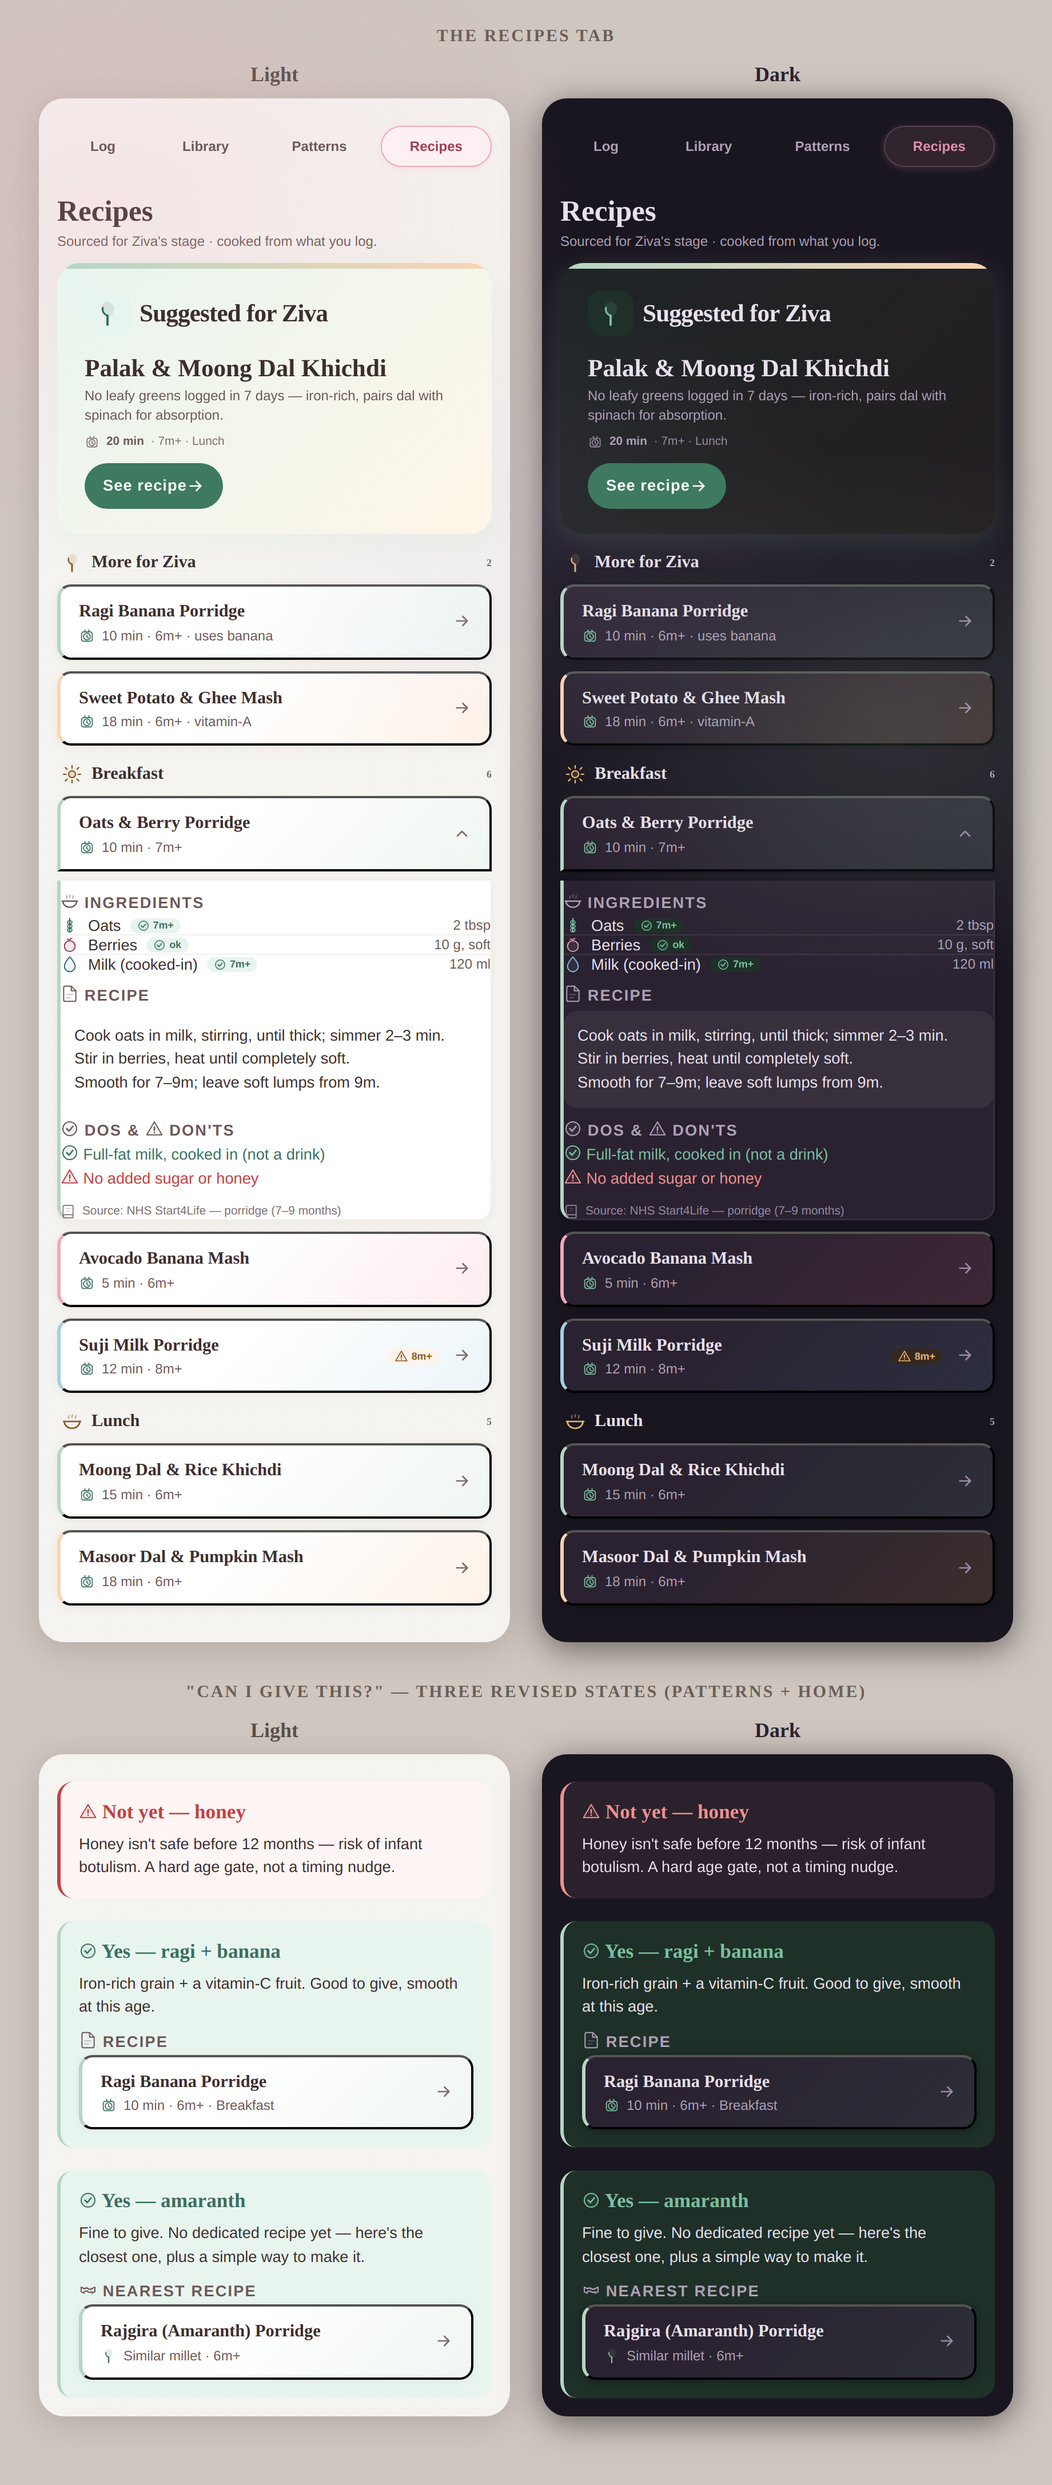
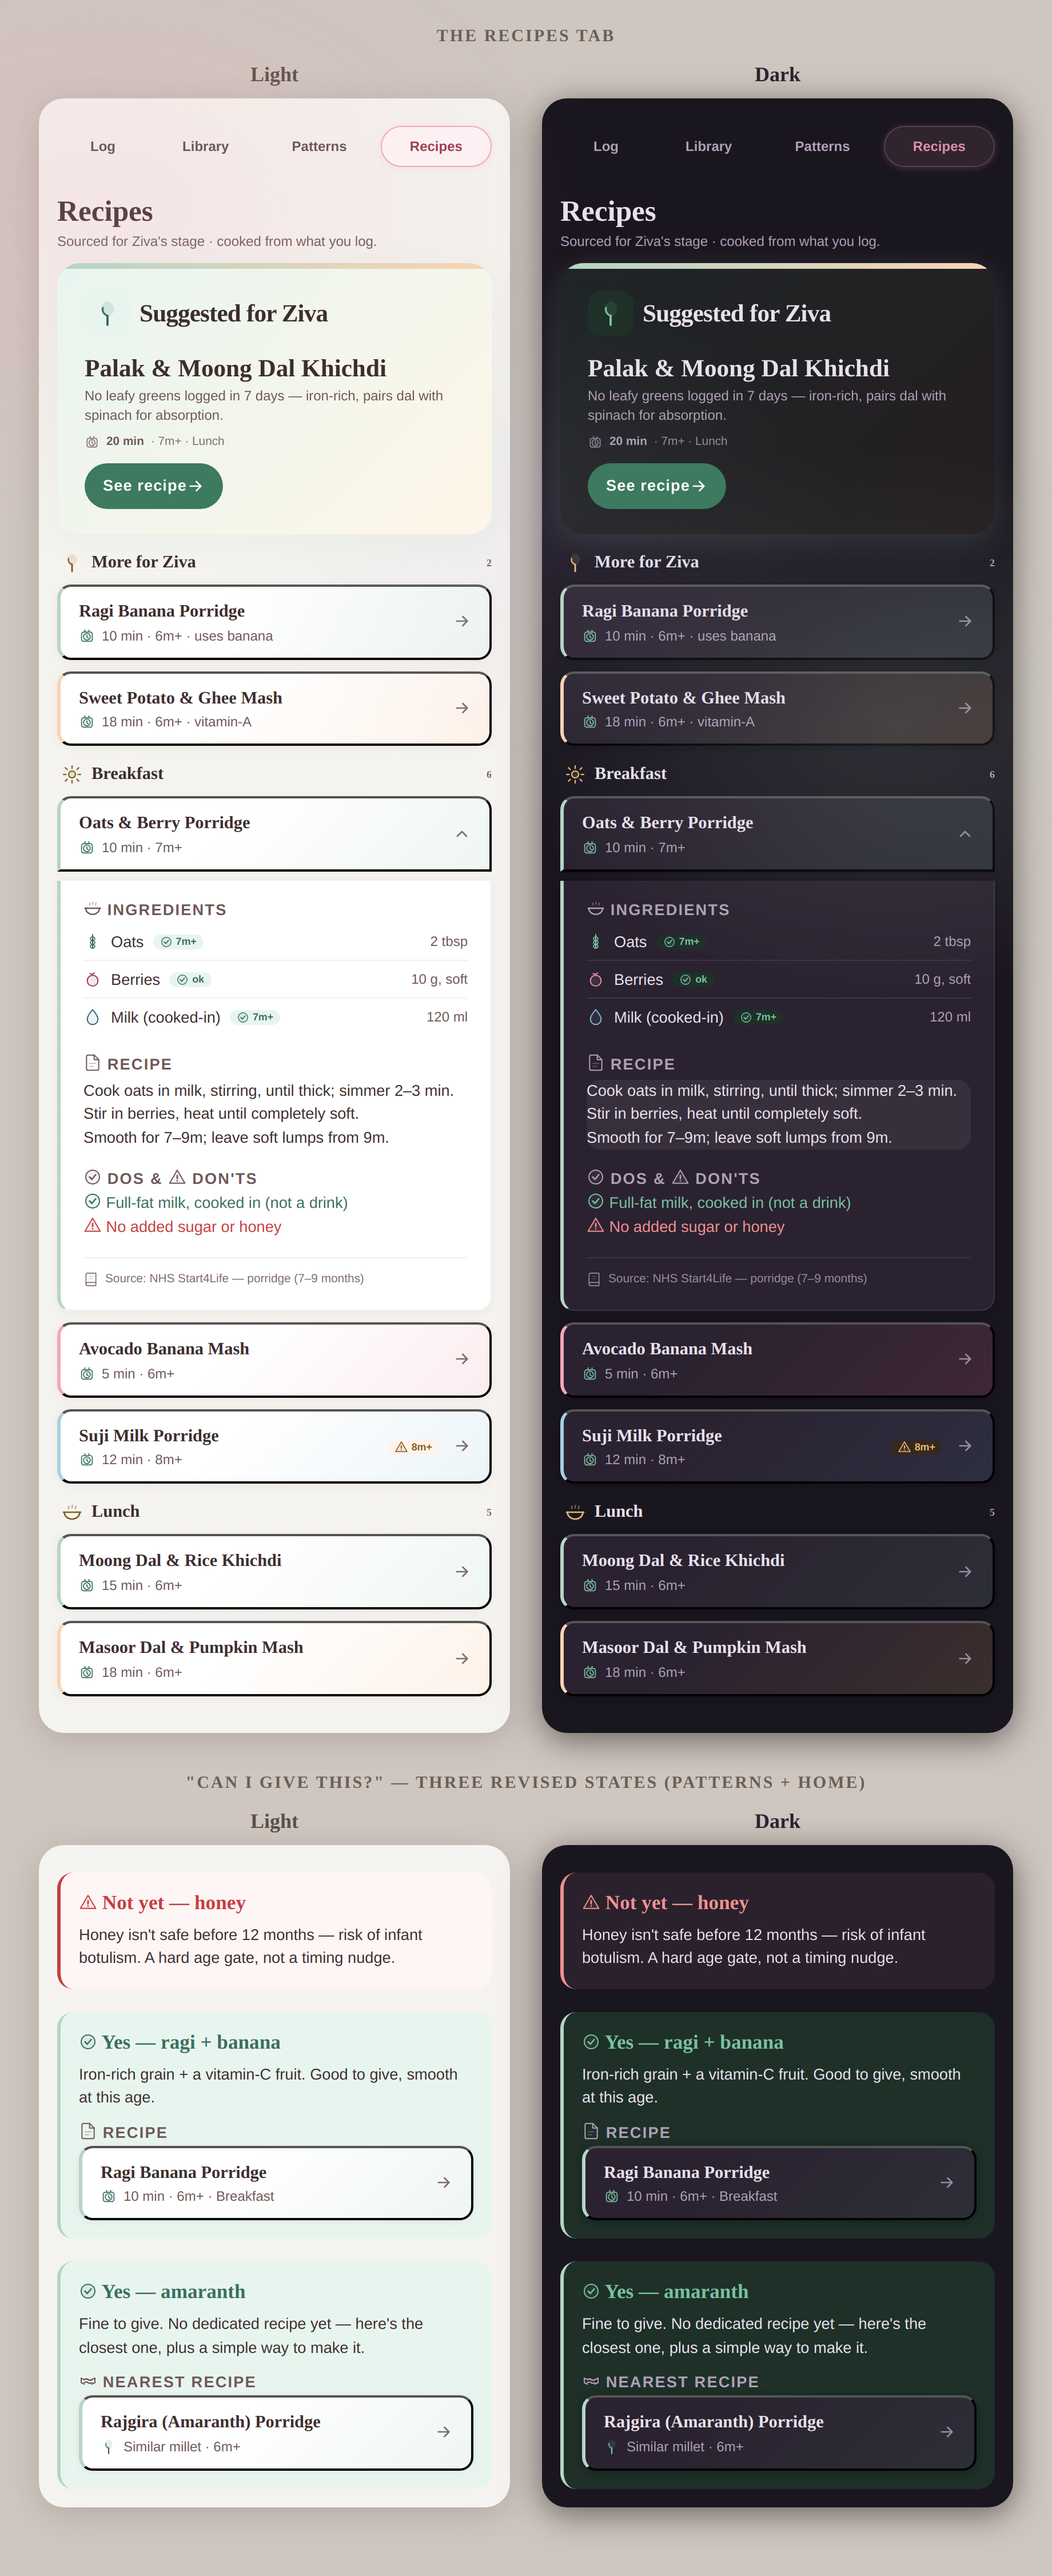
design(recipes): fix expanded-detail breathing room
Detail content was hugging the panel edge (sp-14 top, content flush to
sp-16) — under the 18x16 mobile card-padding standard (DESIGN_PRINCIPLES
line 275). Bumps detail padding to 16/20, spaces sections at sp-16, adds a
left-gap before right-aligned measurements, and separates the source line
with a divider. Docs-only design record.

diff --git a/docs/design/recipes-tab/06-assembled.html b/docs/design/recipes-tab/06-assembled.html
@@ -75,14 +75,17 @@
 
   /* expand-in-place detail (under its row) */
   .rc-detail{border:1px solid var(--card-border);border-top:none;border-left:var(--accent-w,3px) solid var(--sage);border-radius:0 0 var(--r-lg) var(--r-lg);
-    padding:var(--sp-14) var(--sp-16) var(--sp-16);background-color:var(--card-bg);margin-top:-2px;box-shadow:0 1px 8px var(--shadow);}
-  .rc-ing{display:flex;align-items:center;gap:var(--sp-8);font-size:var(--fs-base);padding:var(--sp-5) 0;border-bottom:1px solid var(--card-border);}
+    padding:var(--sp-16) var(--sp-20) var(--sp-20);background-color:var(--card-bg);margin-top:-2px;box-shadow:0 1px 8px var(--shadow);}
+  .rc-detail .combo-section{margin-top:var(--sp-16);}
+  .rc-detail .combo-section:first-child{margin-top:0;}
+  .rc-detail .combo-recipe{padding:var(--sp-12) var(--sp-14);}
+  .rc-ing{display:flex;align-items:center;gap:var(--sp-8);font-size:var(--fs-base);padding:var(--sp-8) 0;border-bottom:1px solid var(--card-border);}
   .rc-ing:last-child{border-bottom:none;}
   .rc-ing .zi{width:16px;height:16px;flex:0 0 auto;}
-  .rc-ing-qty{margin-left:auto;color:var(--mid);font-size:var(--fs-sm);}
+  .rc-ing-qty{margin-left:auto;padding-left:var(--sp-12);color:var(--mid);font-size:var(--fs-sm);}
   .rc-flag{flex:0 0 auto;display:inline-flex;align-items:center;gap:3px;font-size:var(--fs-2xs);font-weight:700;border-radius:var(--r-md);padding:1px var(--sp-6);background:var(--sage-light);color:var(--tc-sage);}
   .rc-flag .zi{width:11px;height:11px;}
-  .rc-source{display:flex;align-items:center;gap:var(--sp-6);font-size:var(--fs-xs);color:var(--light);margin-top:var(--sp-12);}
+  .rc-source{display:flex;align-items:center;gap:var(--sp-6);font-size:var(--fs-xs);color:var(--light);margin-top:var(--sp-16);padding-top:var(--sp-12);border-top:1px solid var(--card-border);}
   .rc-source .zi{width:13px;height:13px;}
 </style>
 </head>
